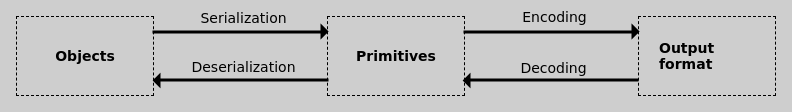
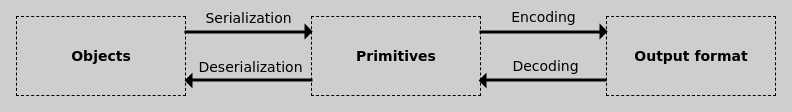
Adjusted images

diff --git a/src/serialization.less b/src/serialization.less
@@ -26,7 +26,7 @@ body {
 }
 .box {
   display: flex;
-  flex-basis: 6rem;
+  flex-basis: 8rem;
   flex-shrink: 0;
   justify-content: center;
   align-items: center;
@@ -57,49 +57,50 @@ body {
     position: absolute;
     transform: rotate(-270deg);
     left: -1.75rem;
-    top: 5.2rem;
+    top: 3.5rem;
   }
 
   &.serialization {
     top: 2rem;
-    left: 9.45rem;
-    height: 10.9rem;
+    left: 11.45rem;
+    height: 7.9rem;
     transform: rotate(270deg);
   }
 
   &.deserialization {
     top: 5rem;
-    left: 20.45rem;
-    height: 10.9rem;
+    left: 19.45rem;
+    height: 7.85rem;
     transform: rotate(90deg);
 
     .description {
       transform: rotate(-90deg);
       left: -4rem;
-      top: 4.8rem;
+      top: 3.4rem;
     }
   }
 
   &.encoding {
     top: 2rem;
-    left: 28.9rem;
-    height: 10.9rem;
+    left: 29.9rem;
+    height: 7.85rem;
     transform: rotate(270deg);
     .description {
+      top: 3.5rem;
       left: -1rem;
     }
   }
 
   &.decoding {
     top: 5rem;
-    left: 39.8rem;
-    height: 10.9rem;
+    left: 37.8rem;
+    height: 7.85rem;
     transform: rotate(90deg);
 
     .description {
       transform: rotate(-90deg);
-      left: -2.75rem;
-      top: 4.8rem;
+      left: -2.9rem;
+      top: 3.3rem;
     }
   }
 }
